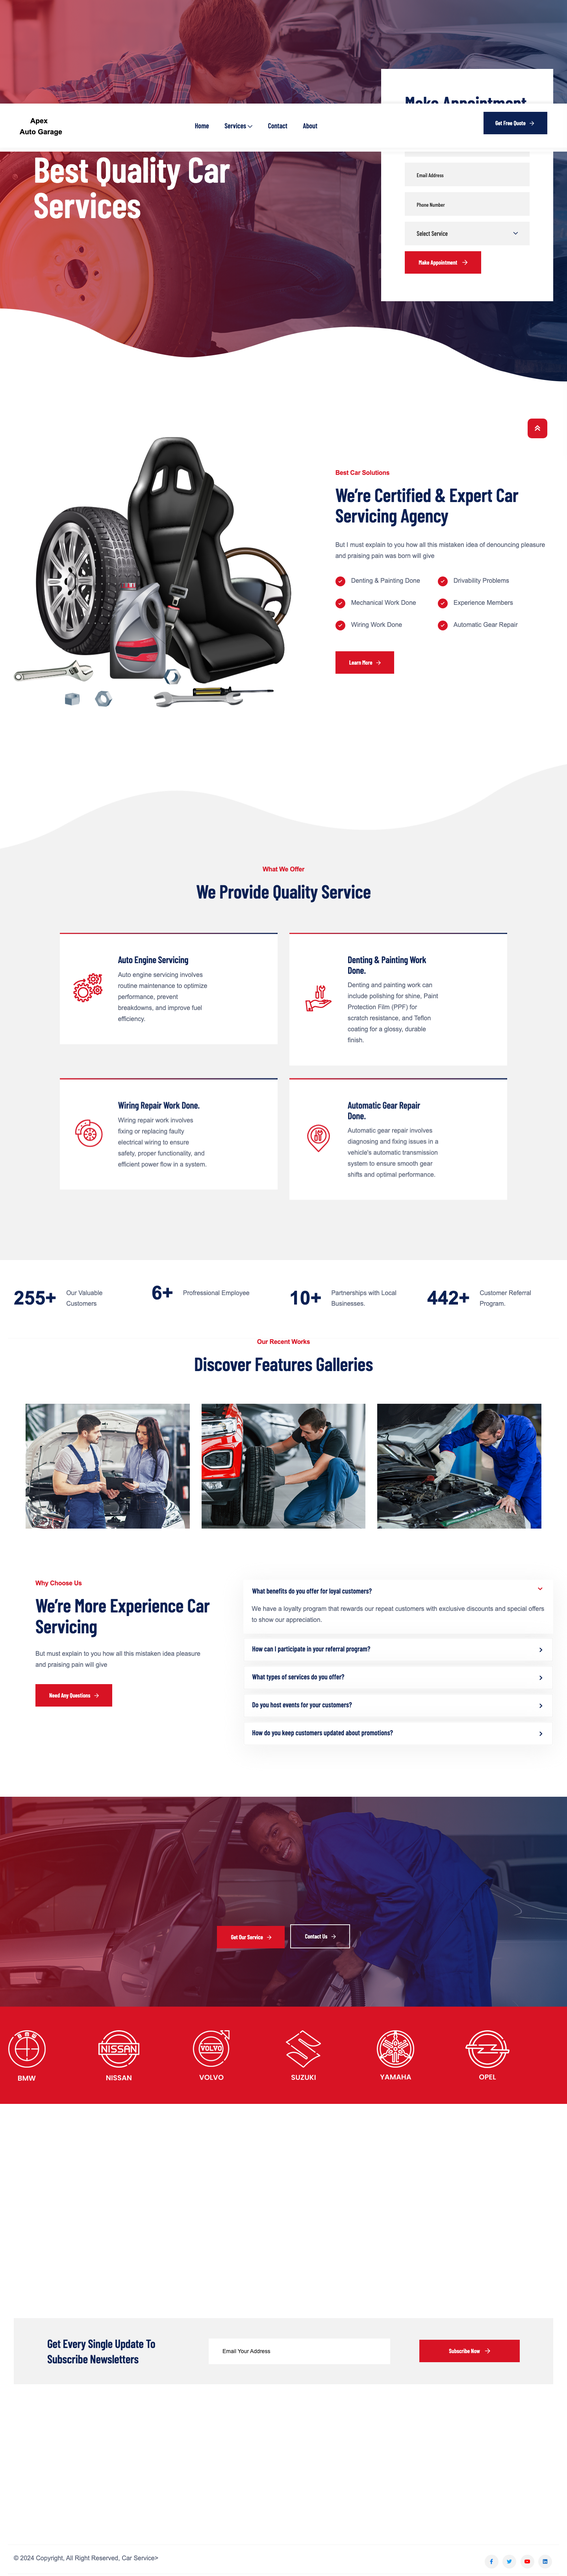
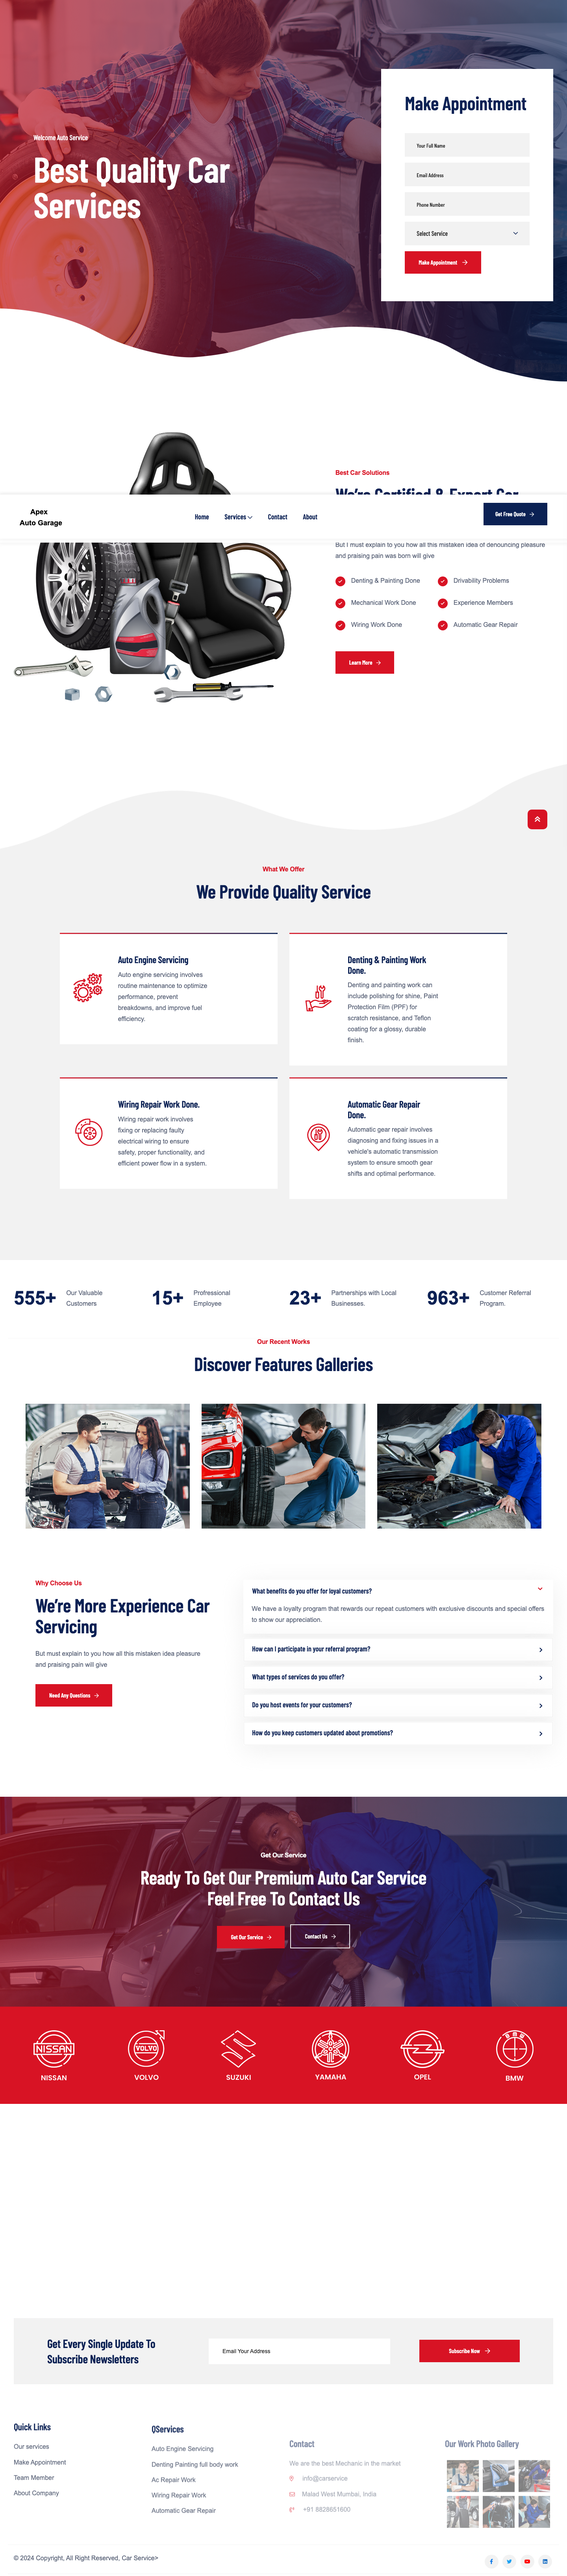
chore: updates

diff --git a/components/WebsiteSampleWizard.tsx b/components/WebsiteSampleWizard.tsx
@@ -667,14 +667,17 @@ export function WebsiteSampleWizard() {
                       return (
                         <Card
                           key={option.id}
-                          className={`group cursor-pointer transition-all border rounded-xl overflow-hidden ${
+                          className={`group transition-all border rounded-xl overflow-hidden ${
                             isSelected
                               ? "border-primary ring-2 ring-primary/20 shadow-md bg-primary/[0.02]"
                               : "border-border hover:border-primary/40 bg-background"
                           }`}
                         >
-                          {/* Visual Screenshot Banner + Expand Zoom Hover Action */}
-                          <div className="relative w-full h-48 sm:h-52 overflow-hidden bg-muted">
+                          {/* Visual Screenshot Banner — click to preview */}
+                          <div
+                            className="relative w-full h-48 sm:h-52 overflow-hidden bg-muted cursor-pointer"
+                            onClick={() => setPreviewIndex(idx)}
+                          >
                             <Image
                               src={option.imageSrc}
                               alt={option.name}
@@ -682,59 +685,35 @@ export function WebsiteSampleWizard() {
                               sizes="(max-width: 640px) 100vw, 50vw"
                               className="object-cover object-top transition-transform duration-500 group-hover:scale-105"
                             />
-                            <div className="absolute inset-0 bg-gradient-to-t from-black/70 via-black/20 to-transparent transition-opacity duration-300" />
+                            <div className="absolute inset-0 bg-gradient-to-t from-black/70 via-black/20 to-transparent" />
 
                             {/* Category Badge */}
                             <Badge className="absolute bottom-3 left-3 bg-background/90 text-foreground backdrop-blur-sm text-[11px] font-semibold border shadow-sm">
                               {option.category}
                             </Badge>
 
-                            {/* Checkmark Indicator */}
-                            <div
-                              onClick={() => toggleKbDesign(option.id)}
-                              className={`absolute top-3 right-3 w-7 h-7 rounded-full border flex items-center justify-center transition-all ${
-                                isSelected ? "bg-primary border-primary text-primary-foreground shadow-md" : "bg-background/90 border-border text-muted-foreground hover:border-primary"
-                              }`}
-                            >
-                              <CheckCircle2 className="w-4 h-4" />
-                            </div>
+                            {/* Selected indicator */}
+                            {isSelected && (
+                              <div className="absolute top-3 right-3 w-7 h-7 rounded-full bg-primary border border-primary text-primary-foreground shadow-md flex items-center justify-center">
+                                <Check className="w-4 h-4" />
+                              </div>
+                            )}
 
-                            {/* Zoom Preview Trigger */}
-                            <div
-                              onClick={(e) => {
-                                e.stopPropagation();
-                                setPreviewIndex(idx);
-                              }}
-                              className="absolute inset-0 flex items-center justify-center bg-black/40 opacity-0 group-hover:opacity-100 transition-opacity duration-200"
-                            >
+                            {/* Hover preview prompt */}
+                            <div className="absolute inset-0 flex items-center justify-center bg-black/30 opacity-0 group-hover:opacity-100 transition-opacity duration-200">
                               <Button
                                 type="button"
                                 size="sm"
                                 className="bg-background text-foreground hover:bg-background/90 font-condensed font-bold gap-1.5 shadow-lg border rounded-full text-xs"
                               >
                                 <Maximize2 className="w-3.5 h-3.5 text-primary" />
-                                Inspect Full Screenshot & Specs
+                                Preview Full Screenshot
                               </Button>
                             </div>
                           </div>
 
-                          <CardContent className="p-5 space-y-3" onClick={() => toggleKbDesign(option.id)}>
-                            <div className="flex items-start justify-between gap-2">
-                              <h4 className="font-bold text-base text-foreground leading-snug">{option.name}</h4>
-                              <Button
-                                type="button"
-                                variant="ghost"
-                                size="icon"
-                                onClick={(e) => {
-                                  e.stopPropagation();
-                                  setPreviewIndex(idx);
-                                }}
-                                className="h-7 w-7 text-muted-foreground hover:text-primary shrink-0"
-                                title="Expand Preview"
-                              >
-                                <Maximize2 className="w-4 h-4" />
-                              </Button>
-                            </div>
+                          <CardContent className="p-5 space-y-3">
+                            <h4 className="font-bold text-base text-foreground leading-snug">{option.name}</h4>
 
                             <p className="text-xs text-muted-foreground font-condensed leading-relaxed">
                               {option.description}
@@ -769,6 +748,39 @@ export function WebsiteSampleWizard() {
                                   title={`Background ${option.colorPalette.backgroundHex}`}
                                 />
                               </div>
+                            </div>
+
+                            {/* Action Buttons: Preview + Select */}
+                            <div className="flex items-center gap-2 pt-2">
+                              <Button
+                                type="button"
+                                variant="outline"
+                                size="sm"
+                                onClick={(e) => {
+                                  e.stopPropagation();
+                                  setPreviewIndex(idx);
+                                }}
+                                className="flex-1 font-condensed font-semibold"
+                              >
+                                <Maximize2 className="w-3.5 h-3.5 mr-1.5" />
+                                Preview
+                              </Button>
+                              <Button
+                                type="button"
+                                size="sm"
+                                onClick={(e) => { e.stopPropagation(); toggleKbDesign(option.id); }}
+                                className={`flex-1 font-condensed font-bold ${
+                                  isSelected
+                                    ? "bg-secondary text-secondary-foreground hover:bg-secondary/90"
+                                    : "bg-primary text-primary-foreground hover:bg-primary/90"
+                                }`}
+                              >
+                                {isSelected ? (
+                                  <><Check className="w-4 h-4 mr-1.5" /> Selected</>
+                                ) : (
+                                  <><Sparkles className="w-4 h-4 mr-1.5" /> Select</>
+                                )}
+                              </Button>
                             </div>
                           </CardContent>
                         </Card>

diff --git a/lib/kb-designs.ts b/lib/kb-designs.ts
@@ -32,7 +32,7 @@ export const KB_DESIGN_OPTIONS: KBDesignOption[] = [
       mutedHex: "#596277"
     },
     keyFeatures: ["Emergency Phone CTA Bar", "Condensed Impact Headers", "Diagnostic Service Cards", "Instant Quote Request"],
-    sampleSites: ["Apex Auto Garage", "Alliance Ireland Plumbing", "Dublin Plumbing Services"]
+    sampleSites: ["Apex Auto Garage", "Alliance Ireland Plumbing", "Dublin Plumbing Services", "McCoy Motors", "Shine Window Cleaning", "Mr Brilliant Window Cleaner"]
   },
   {
     id: "luxury-beauty",
@@ -49,7 +49,7 @@ export const KB_DESIGN_OPTIONS: KBDesignOption[] = [
       mutedHex: "#757575"
     },
     keyFeatures: ["Editorial Image Showcases", "Pill-shaped Action Triggers", "Mobile 'Book Now' Floating Bar", "Service Pricing Cards"],
-    sampleSites: ["Dry & Fly Beauty Bar", "Hershesons Salon", "Peter Mark Hairdressers"]
+    sampleSites: ["Dry & Fly Beauty Bar", "Hershesons Salon", "Larry King Hair", "Peter Mark Hairdressers"]
   },
   {
     id: "healthcare-wellness",
@@ -66,7 +66,7 @@ export const KB_DESIGN_OPTIONS: KBDesignOption[] = [
       mutedHex: "#64748B"
     },
     keyFeatures: ["Empathetic Hero Headers", "Practitioner Profile Cards", "Confidential Inquiry Triggers", "FAQ Accordion"],
-    sampleSites: ["Mind & Body Works", "TalkHere Counseling"]
+    sampleSites: ["Mind & Body Works", "TalkHere Counselling"]
   },
   {
     id: "warm-editorial",
